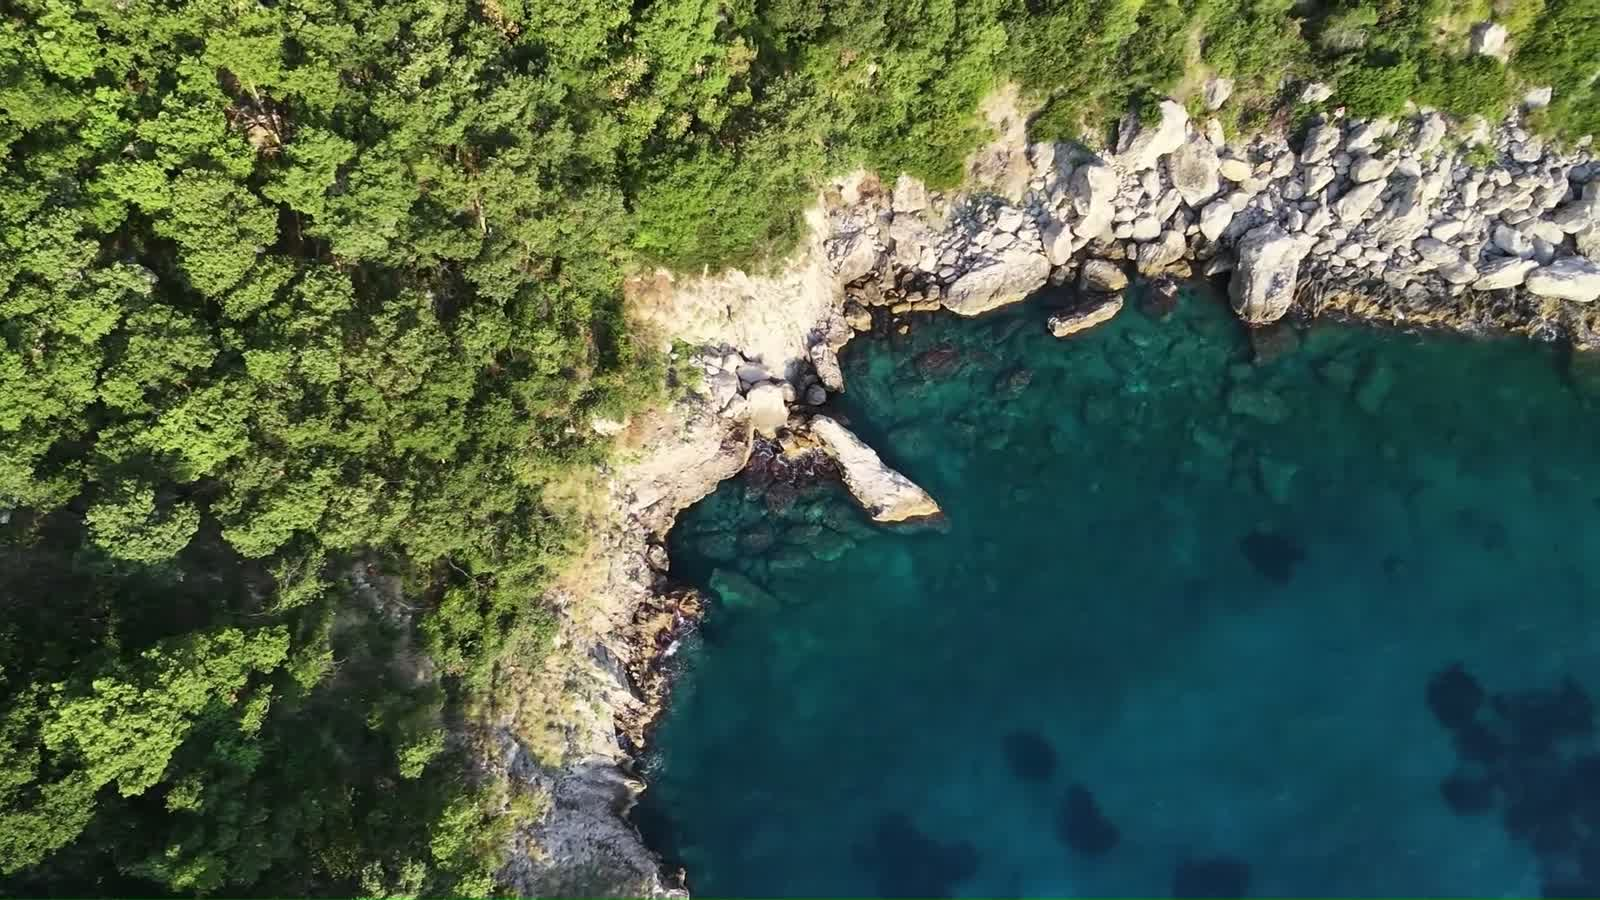
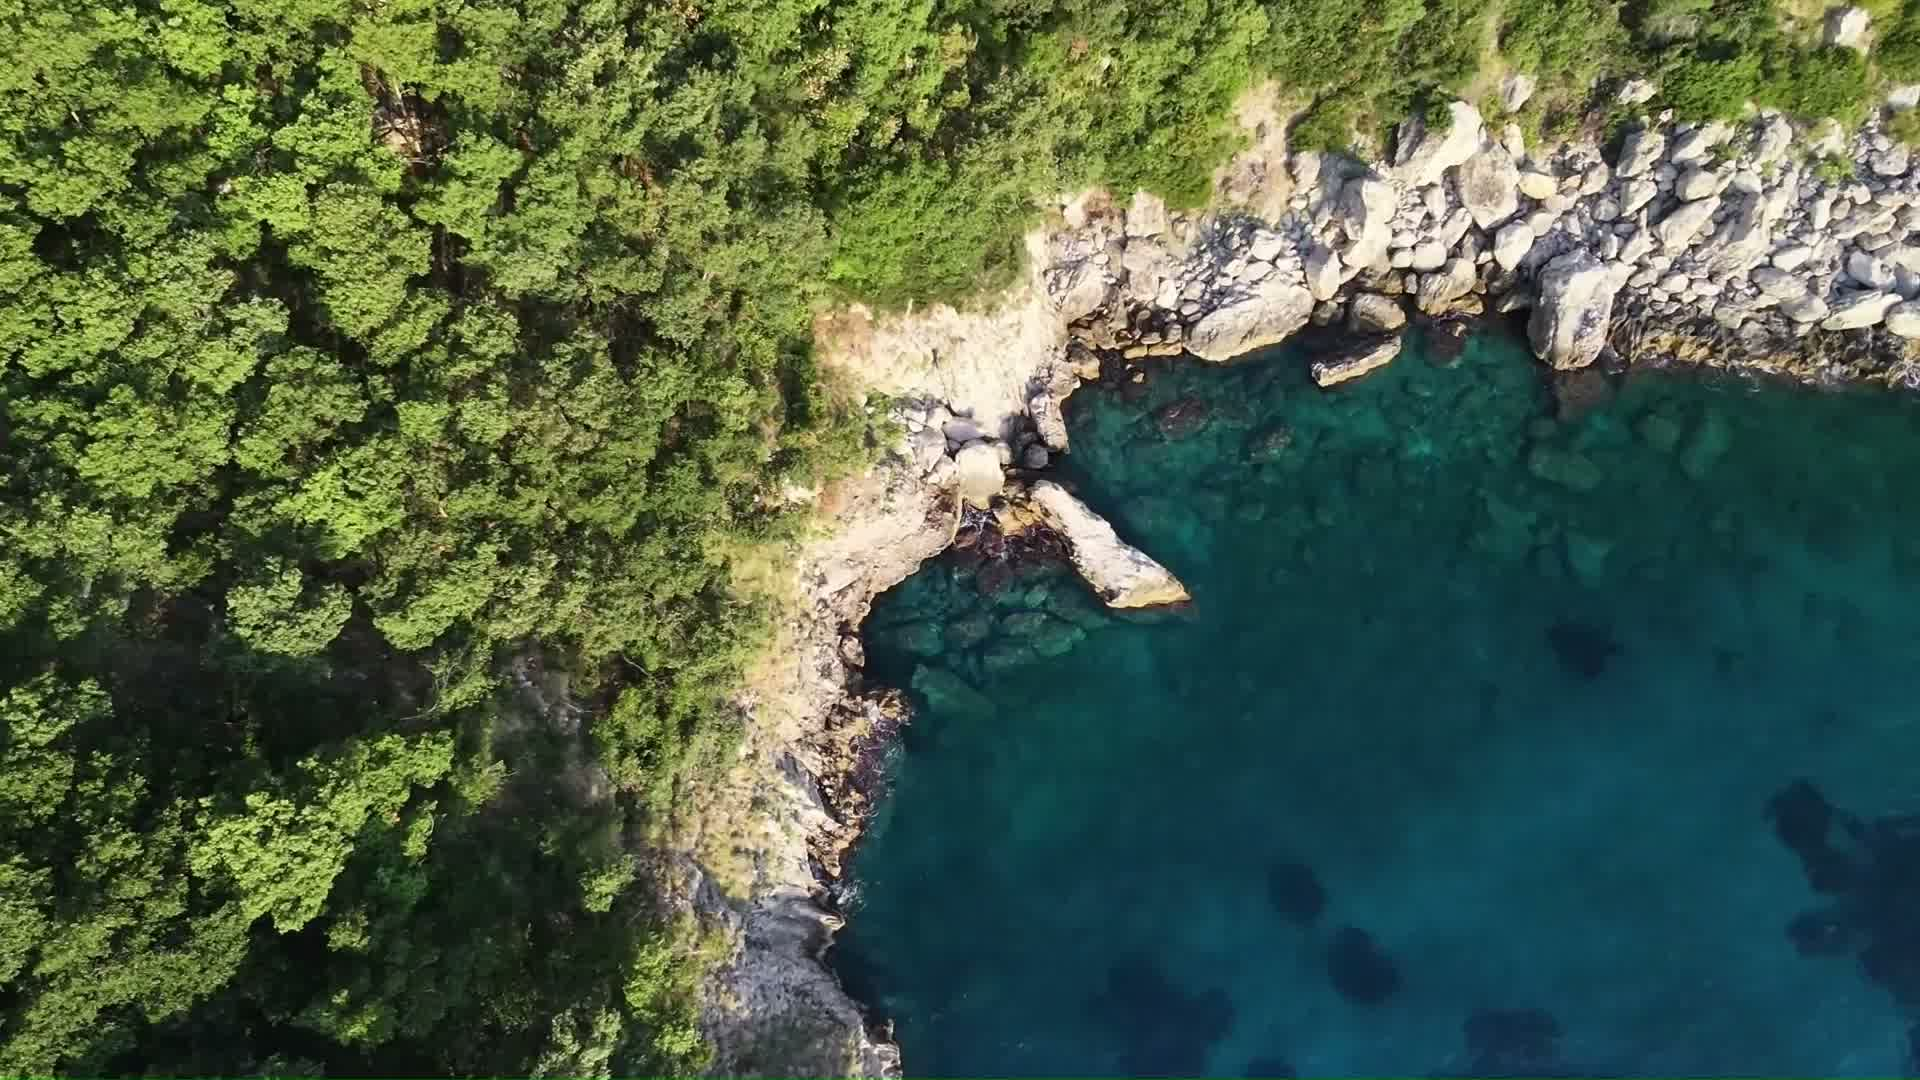
Nuova hero: video be8d3194 e poster dal suo primo fotogramma

diff --git a/public/index.html b/public/index.html
@@ -362,7 +362,7 @@ gtag('config','G-0RN6LP6RPF');
   </sc-if>
 </div>
 </x-dc>
-<script type="text/x-dc" data-dc-script="" data-props="{&quot;heroVideo&quot;:{&quot;editor&quot;:&quot;text&quot;,&quot;default&quot;:&quot;f7886441-7ff8-4862-9fe8-f2f4acd0b8a1&quot;,&quot;tsType&quot;:&quot;string&quot;,&quot;section&quot;:&quot;Video&quot;},&quot;stickyCta&quot;:{&quot;editor&quot;:&quot;boolean&quot;,&quot;default&quot;:true,&quot;tsType&quot;:&quot;boolean&quot;,&quot;section&quot;:&quot;Stile&quot;}}">
+<script type="text/x-dc" data-dc-script="" data-props="{&quot;heroVideo&quot;:{&quot;editor&quot;:&quot;text&quot;,&quot;default&quot;:&quot;be8d3194-e694-4977-8c18-4b391c9fcda9&quot;,&quot;tsType&quot;:&quot;string&quot;,&quot;section&quot;:&quot;Video&quot;},&quot;stickyCta&quot;:{&quot;editor&quot;:&quot;boolean&quot;,&quot;default&quot;:true,&quot;tsType&quot;:&quot;boolean&quot;,&quot;section&quot;:&quot;Stile&quot;}}">
 const { works: WORKS, audiences: CATS, aspects: ASPECT, lightboxWidths: LBW } = window.QZPortfolio;
 const BUNNY_CDN = 'https://vz-0c0a8faa-9e0.b-cdn.net';
 const likeClient = window.QZLikes.createClient({
